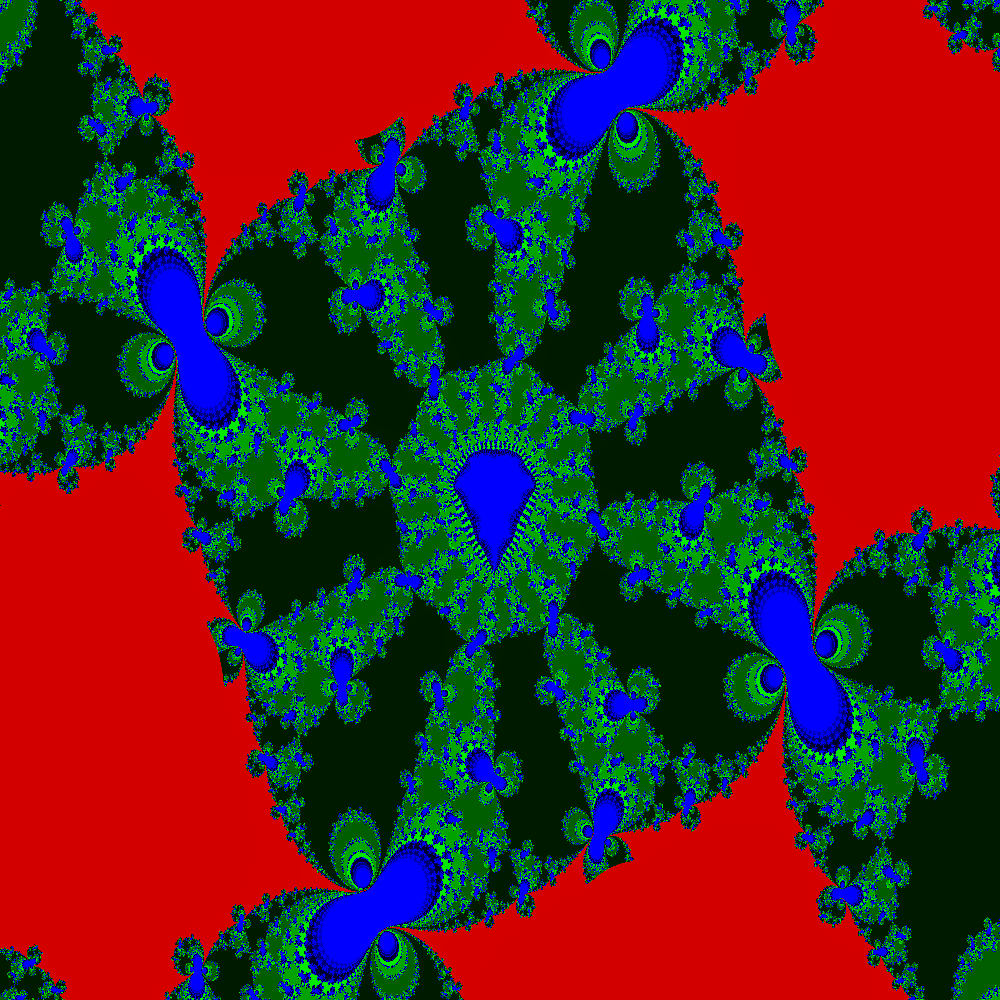
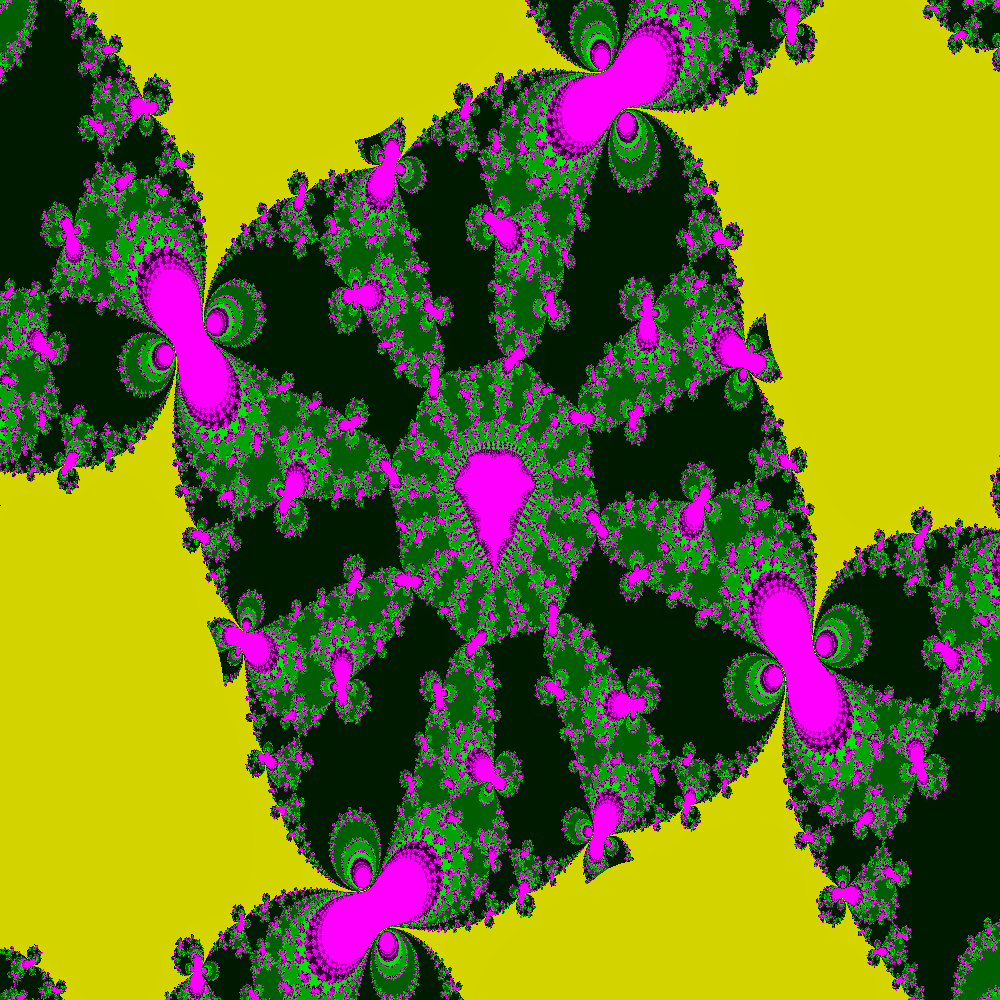
Assignment 1 Part 1

diff --git a/assn1/part1/Main.java b/assn1/part1/Main.java
@@ -66,13 +66,19 @@ public class Main
 	    float g = 0.0f;
 	    float b = 0.0f;
 	    if(segment <= ONE_THIRD)
+	    {
 		r = (float)Math.max(MIN_COLOR_VAL, segment * 3.0);
+		g = (float)Math.max(MIN_COLOR_VAL, segment * 3.0);
+	    }
 
 	    if(segment > ONE_THIRD && segment <= TWO_THIRDS)
 		g = (float)Math.max(MIN_COLOR_VAL, (segment - ONE_THIRD) * 3.0);
-
+	    
 	    if(segment >= TWO_THIRDS)
+	    {
+		r = (float)Math.max(MIN_COLOR_VAL, (segment - TWO_THIRDS) * 3.0);
 		b = (float)Math.max(MIN_COLOR_VAL, (segment - TWO_THIRDS) * 3.0);
+	    }
 
 	    Color color = new Color(r, g, b);	    
 	    image.setRGB(x, y, color.getRGB());
